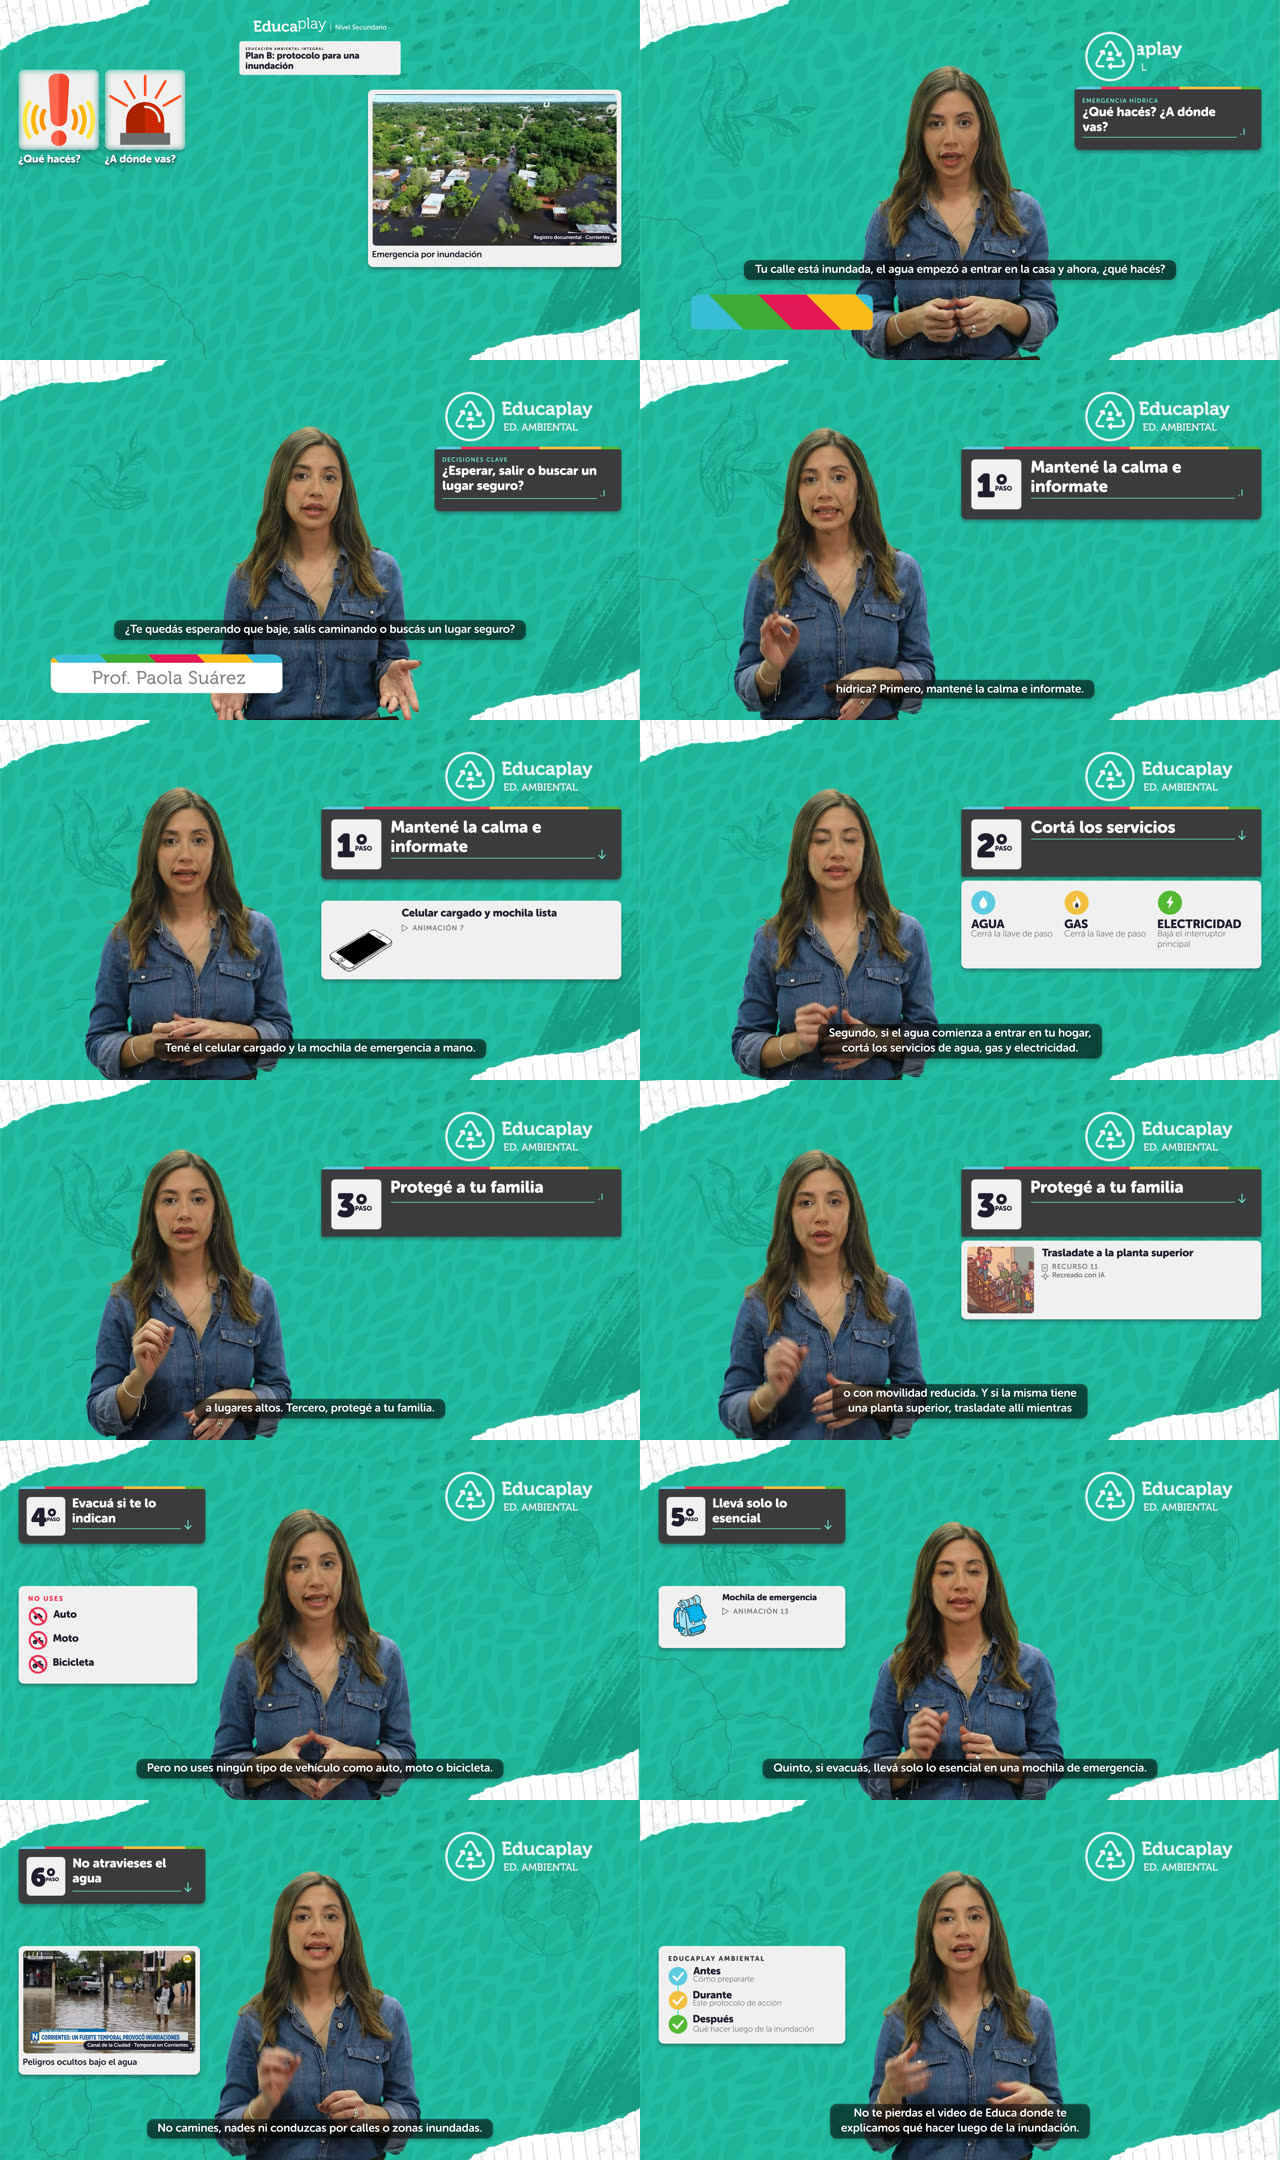
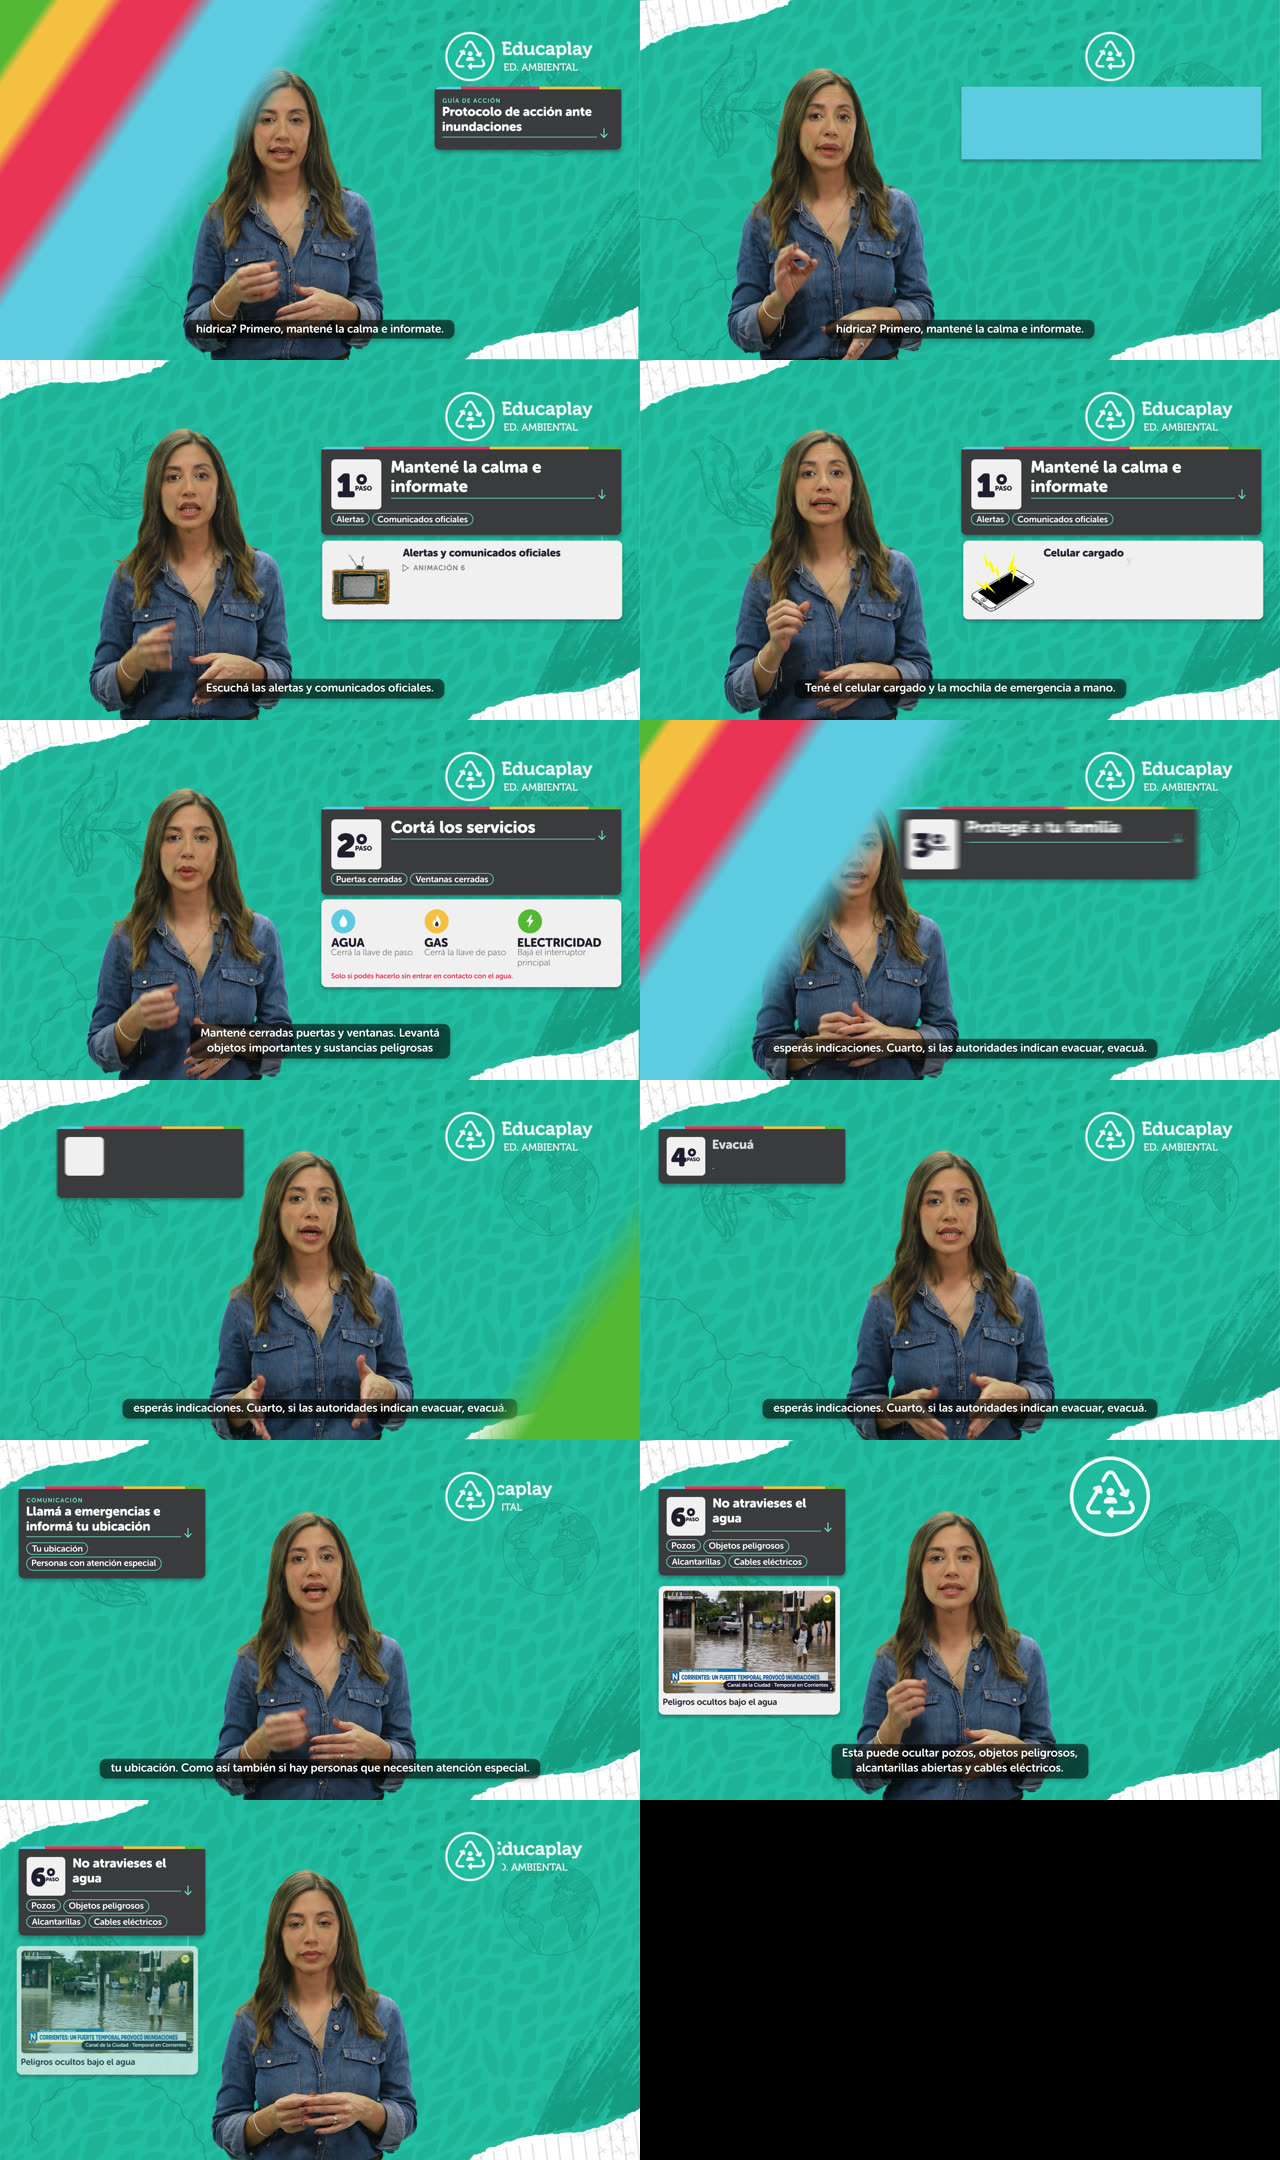
AMB26-04: evidencia en modo vivo (revision/) y clásico (revision-clasico/); marca y errores
- revision/ pasa a ser el armado vivo (el defecto) y revision-clasico/ el anterior;
  se borra revision-vivo/.
- nuevo muestra el error sin volcado de pila; el tracker mide el color del plató
  en cuatro cuadros sin papel ni negro (a los 5 s solía haber una placa).
- «Educaplay» también en comentarios y en el paso de deshacer de AE.

diff --git a/ae/build-episode.jsx b/ae/build-episode.jsx
@@ -21,7 +21,7 @@
  * Las cajas NO se deciden acá. Vienen resueltas por la resolveSlot() del motor
  * (la banda libre al costado de la docente), así que un gráfico no la pisa.
  * Lo que este script agrega es la puesta en escena, con la estética de la
- * plataforma EducaPlay (ver docs/ESTETICA.md).
+ * plataforma Educaplay (ver docs/ESTETICA.md).
  *
  * Todo lo que se agrega por scripting usa matchNames, no nombres visibles:
  * funciona igual con AE en español o en inglés.
@@ -125,7 +125,7 @@ function buildEpisode() {
   var PAL = M.theme.palette;
   var FONTS = M.theme.fonts;
 
-  // Estética de la plataforma EducaPlay (Corrientes Play): los colores se
+  // Estética de la plataforma Educaplay (Corrientes Play): los colores se
   // midieron sobre la web y reemplazan a los tokens de la materia.
   var WEB = {
     cian: '#5DCBE1', rojo: '#EA3355', amarillo: '#F5C042', verde: '#54B835',
@@ -184,7 +184,7 @@ function buildEpisode() {
     log('⚠ Esta versión de After Effects no permite verificar fuentes (app.fonts): revisá que no haya fuentes faltantes');
   }
 
-  app.beginUndoGroup('EducaPlay · ' + MAIN);
+  app.beginUndoGroup('Educaplay · ' + MAIN);
   if (app.project && app.project.numItems > 0) {
     if (!app.newProject()) return; // el usuario canceló el "¿guardar cambios?"
   }
@@ -1420,7 +1420,7 @@ function buildEpisode() {
   });
 
   // ───────────────────────────────────────────────────────────── subtítulos
-  // Estándar de subtitulado EducaPlay (subtitulos/EDUCAPLAY_MOTION_GRAPHICS_
+  // Estándar de subtitulado Educaplay (subtitulos/EDUCAPLAY_MOTION_GRAPHICS_
   // ACTUALIZADO.md §1.4):
   //   · pastilla esmerilada: scrim plano al 55 % (negro: la tinta #07202C del
   //     documento no llega a 4,5:1, ver THEME.captions), 10 px de desenfoque
